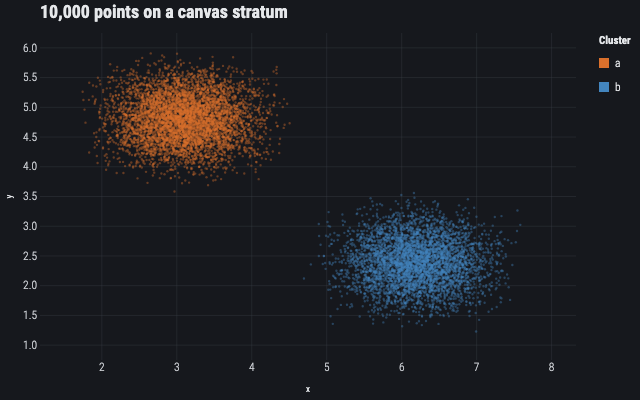
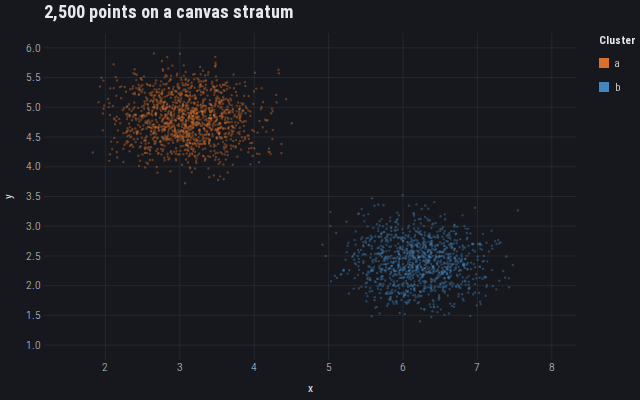
fix(visual): trim canvas-scatter to 2.5k marks for VR budget (#926)
10k marks blocked the main thread for ~150s under Playwright (two ~80s
longtasks). 2.5k stays above CANVAS_AUTO_THRESHOLD and drops wall time
enough to retire the 180s smoke timeout.

diff --git a/scripts/capture-gallery-lights.ts b/scripts/capture-gallery-lights.ts
@@ -89,14 +89,14 @@ async function main(): Promise<void> {
         timezoneId: "UTC",
       });
       const page = await context.newPage();
-      // The 10k-mark canvas specimen hydrates a large client bundle and paints
-      // on the main thread, so networkidle alone can outlast Playwright's 30s
-      // default (vr.spec.ts grants that scenario 120s for the same reason).
-      // Budget generously for every page: readiness is gated by settle(), not
-      // by the clock, so a slow example waits instead of shipping a half-drawn
-      // preview — and a genuinely hung one still fails rather than hanging.
-      page.setDefaultNavigationTimeout(120_000);
-      page.setDefaultTimeout(120_000);
+      // Canvas-scatter (and dense examples) can monopolize the main thread
+      // during hydrate (#926); networkidle alone can outlast Playwright's 30s
+      // default. Budget generously for every page: readiness is gated by
+      // settle(), not by the clock, so a slow example waits instead of shipping
+      // a half-drawn preview — and a genuinely hung one still fails rather
+      // than hanging.
+      page.setDefaultNavigationTimeout(60_000);
+      page.setDefaultTimeout(60_000);
       const url = `${BASE}/examples/${entry.id}?vr&theme=light`;
       await page.goto(url, { waitUntil: "networkidle" });
       await page.locator("html").getAttribute("data-vr");

diff --git a/examples/point/canvas-scatter/spec.ts b/examples/point/canvas-scatter/spec.ts
@@ -1,18 +1,17 @@
 import { aes, gg } from "@ggsvelte/spec";
 
 import { defineExample } from "../../define.js";
-import { cloud } from "./data.js";
+import { CANVAS_SCATTER_MARKS, cloud } from "./data.js";
 
 export default defineExample(
   gg(cloud, aes({ x: "x", y: "y", color: "cluster" }))
     .geomPoint({ size: 1.2, alpha: 0.4 })
-    // The one example that keeps generated data on purpose: its subject is the
-    // canvas rendering path under 10,000 marks, not a dataset. Dark ground is
-    // where overplotting at low alpha actually reads.
+    // Subject is the canvas rendering path above CANVAS_AUTO_THRESHOLD, not a
+    // dataset. Dark ground is where overplotting at low alpha actually reads.
     .scaleColorManual({ domain: ["a", "b"], values: ["#da702c", "#4385be"] })
     .theme("dark")
     .labs({
-      title: "10,000 points on a canvas stratum",
+      title: `${CANVAS_SCATTER_MARKS.toLocaleString("en-US")} points on a canvas stratum`,
       x: "x",
       y: "y",
       color: "Cluster",

diff --git a/examples/point/canvas-scatter/data.ts b/examples/point/canvas-scatter/data.ts
@@ -1,4 +1,9 @@
-/** 10,000 seeded points in two gaussian-ish clusters (canvas showcase). */
+/** 2,500 seeded points in two gaussian-ish clusters (canvas showcase).
+ *
+ * Kept just above CANVAS_AUTO_THRESHOLD (2000) so the example exercises the
+ * canvas stratum. 10k previously monopolized the main thread for ~150s under
+ * Playwright (#926); wall time scales roughly linearly with mark count.
+ */
 import { mulberry32 } from "../../rng.js";
 
 const rnd = mulberry32(0xca57);
@@ -8,8 +13,11 @@ function noise(): number {
   return (rnd() + rnd() + rnd() + rnd()) / 2 - 1;
 }
 
+/** Mark count for the canvas showcase — must stay > CANVAS_AUTO_THRESHOLD. */
+export const CANVAS_SCATTER_MARKS = 2_500;
+
 export const cloud: { x: number; y: number; cluster: string }[] = [];
-for (let i = 0; i < 10_000; i++) {
+for (let i = 0; i < CANVAS_SCATTER_MARKS; i++) {
   const second = rnd() < 0.45;
   cloud.push({
     x: Math.round(((second ? 6.2 : 3.1) + noise() * 1.6) * 1000) / 1000,

diff --git a/examples/point/canvas-scatter/canvas-scatter.test.ts b/examples/point/canvas-scatter/canvas-scatter.test.ts
@@ -1,0 +1,23 @@
+import { CANVAS_AUTO_THRESHOLD, runPipeline } from "@ggsvelte/core";
+import { describe, expect, test } from "bun:test";
+
+import { CANVAS_SCATTER_MARKS, cloud } from "./data.ts";
+import spec from "./spec.ts";
+
+describe("point/canvas-scatter showcase", () => {
+  test("stays above the canvas auto threshold so VR/docs exercise a canvas stratum", () => {
+    expect(CANVAS_SCATTER_MARKS).toBeGreaterThan(CANVAS_AUTO_THRESHOLD);
+    expect(cloud.length).toBe(CANVAS_SCATTER_MARKS);
+    expect(CANVAS_SCATTER_MARKS).toBe(2_500);
+  });
+
+  test("pipeline selects the canvas backend for the point layer", () => {
+    const model = runPipeline(spec, { width: 640, height: 400 });
+    try {
+      expect(model.layerBackends[0]).toBe("canvas");
+      expect(spec.labs?.title).toBe("2,500 points on a canvas stratum");
+    } finally {
+      model.dispose();
+    }
+  });
+});

diff --git a/tests/visual/vr.spec.ts b/tests/visual/vr.spec.ts
@@ -167,11 +167,10 @@ const INTERACTION_HANDLERS: Record<
 for (const scenario of SMOKE_SCENARIOS) {
   if (scenario.kind === "example") {
     test(`${scenario.exampleId} — ${scenario.theme}`, async ({ page }) => {
-      // 10k-mark canvas specimen hydrates a large client bundle + paints on the
-      // main thread; under CI load this regularly exceeds the default 30s budget
-      // before data-gg-ready flips (and before Playwright can even query the DOM).
+      // Canvas-scatter mark count is tuned just above CANVAS_AUTO_THRESHOLD
+      // (#926); under CI load hydrate still straddles the default 30s budget.
       if (scenario.exampleId === "point/canvas-scatter") {
-        test.setTimeout(180_000);
+        test.setTimeout(60_000);
       }
       await shotExample(page, scenario.exampleId, scenario.theme, scenario.basename);
     });

diff --git a/examples/point/canvas-scatter/Example.svelte b/examples/point/canvas-scatter/Example.svelte
@@ -7,7 +7,9 @@
     ThemeDark,
   } from "@ggsvelte/svelte";
 
-  import { cloud } from "./data.js";
+  import { CANVAS_SCATTER_MARKS, cloud } from "./data.js";
+
+  const title = `${CANVAS_SCATTER_MARKS.toLocaleString("en-US")} points on a canvas stratum`;
 </script>
 
 <GGPlot
@@ -18,6 +20,6 @@
 >
   <ThemeDark />
   <ScaleColorManual domain={["a", "b"]} values={["#da702c", "#4385be"]} />
-  <Labs title="10,000 points on a canvas stratum" x="x" y="y" color="Cluster" />
+  <Labs {title} x="x" y="y" color="Cluster" />
   <GeomPoint size={1.2} alpha={0.4} />
 </GGPlot>

diff --git a/scripts/llms-guide-content.ts b/scripts/llms-guide-content.ts
@@ -1294,7 +1294,7 @@ a11y chrome stay semantic regardless of SVG vs canvas.
 ## SVG, canvas, and auto
 
 SVG: DOM marks. Canvas: dense strata. Auto: switches above the published
-threshold and emits \`canvas-auto\`. [10k-point scatter](/examples/point/canvas-scatter):
+threshold and emits \`canvas-auto\`. [2.5k-point scatter](/examples/point/canvas-scatter):
 canvas marks, SVG axes/legend.
 
 ## Canvas and interaction

diff --git a/examples/manifest.ts b/examples/manifest.ts
@@ -610,7 +610,7 @@ export const EXAMPLES: readonly ExampleManifestEntry[] = [
     id: "point/canvas-scatter",
     category: "point",
     name: "canvas-scatter",
-    title: "Canvas scatter (10,000 points)",
+    title: "Canvas scatter (2,500 points)",
     description: "",
     tags: ["point", "canvas", "performance", "theme"],
     docsSection: "Points & scatter",

diff --git a/.changeset/926-canvas-scatter-vr-budget.md b/.changeset/926-canvas-scatter-vr-budget.md
@@ -1,0 +1,16 @@
+---
+"@ggsvelte/core": patch
+"@ggsvelte/spec": patch
+"@ggsvelte/svelte": patch
+---
+
+<!-- markdownlint-disable MD041 -->
+
+fix: trim canvas-scatter showcase so VR smoke stays under budget (#926)
+
+Reduce the gallery specimen from 10k to 2.5k marks (still above
+`CANVAS_AUTO_THRESHOLD`) so Playwright VR/gallery capture finish without a
+180s timeout mask. Wall time under headless Chromium scaled roughly with mark
+count (~156s at 10k → ~42s at 2.5k).
+
+Migration: none — docs/example display density only; no public API change.
